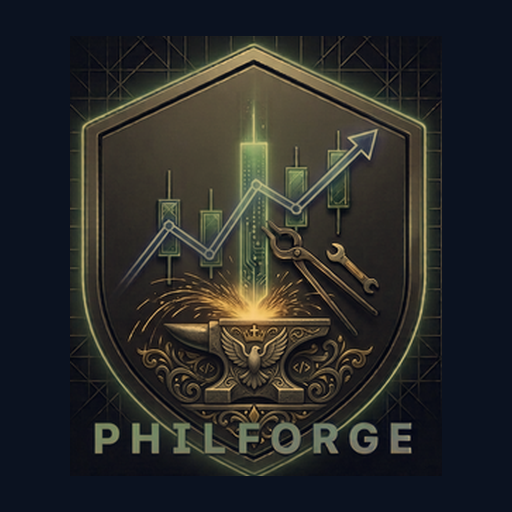
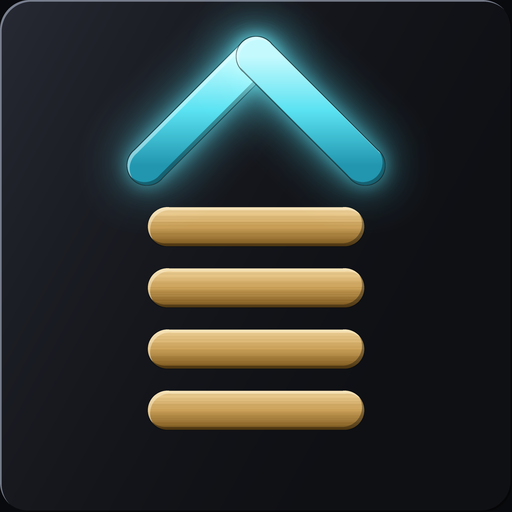
The desk's mark is the same one everywhere
The landing had the new mark; nothing else did. The installed app, the
browser tab, the unlock screen and the top bar were each still wearing
something older, so the product had four logos.

Regenerated static/pwa-icons/ from the mark. The maskable pair is drawn
on a flat ground rather than as the plate, and sized so its DIAGONAL
fits the 80% safe circle — fitting the height instead left the bottom
rung outside it, which a round launcher would have clipped.

/favicon.ico was serving a purple hexagon that belonged to no part of
this product. It now draws the mark as an SVG, which stays sharp at the
16px a tab actually paints.

The in-app mark keeps its four elements but changes shape: brass rungs
standing up under a cyan chevron. Three rungs, not four — at 36px a
fourth closes the gaps and the ladder reads as a solid block.

It is also no longer tinted by the appearance preset. Taking
--tint-primary/secondary/tertiary meant the logo in the top bar rarely
matched the one on the landing, the tab or the home screen; a mark that
changes colour with a theme is not a logo. The plate under it still
follows the theme.

The chevron is one square turned 45deg with two borders painted, and
cfInitBrandMotion() writes transform on it, so the rotation is repeated
in every keyframe — without that the animation drops it and the caret
lands as a square. The rungs now draw in on scaleX from the left rather
than rising on scaleY, because they are rungs being laid, not columns.
[…]

diff --git a/static/cryptoforge-app.css b/static/cryptoforge-app.css
@@ -414,41 +414,50 @@
     border: 1px solid rgba(96,165,250,0.14);
     background: linear-gradient(145deg, rgba(24,35,62,0.30), transparent 62%);
   }
+  /* The desk's mark: brass rungs standing up under a cyan chevron, the same
+     shape the landing and the app icon carry. Three rungs here, not the four
+     the full mark has — at 36px a fourth closes the gaps and the ladder reads
+     as a solid block.
+
+     These colours are deliberately NOT theme-tinted. The mark used to take
+     --tint-primary/secondary/tertiary and change colour with the appearance
+     preset, which meant the logo in the top bar rarely matched the logo on the
+     landing, the tab or the home screen. The plate below still follows the
+     theme; the mark on it does not. */
   .brand-column {
     position: absolute;
-    bottom: 7px;
-    width: 6px;
+    left: 50%;
+    margin-left: -8px;
+    width: 16px;
+    height: 3px;
     border-radius: 999px;
-    box-shadow: inset 0 1px 0 rgba(255,255,255,0.20);
-    /* cfInitBrandMotion() scales these on scaleY; growing from the baseline is
-       what makes them read as depth columns rather than stretching bars. */
-    transform-origin: 50% 100%;
+    background: linear-gradient(180deg, #F2D69E, #C89A56);
+    box-shadow: inset 0 1px 0 rgba(255,255,255,0.28);
+    /* cfInitBrandMotion() draws these in on scaleX, so a rung lays itself down
+       from the left the way the ladder is built. Growing from the centre made
+       them flick outwards from a dot, which read as a glitch. */
+    transform-origin: 0 50%;
     will-change: transform;
   }
-  .brand-column.col-a {
-    left: 9px;
-    height: 18px;
-    background: linear-gradient(180deg, #93c5fd, #2563eb);
-  }
-  .brand-column.col-b {
-    left: 16px;
-    height: 24px;
-    background: linear-gradient(180deg, var(--accent), var(--accent2));
-  }
-  .brand-column.col-c {
-    left: 23px;
-    height: 14px;
-    background: linear-gradient(180deg, #fb7185, #db2777);
-  }
+  .brand-column.col-a { top: 28px; }
+  .brand-column.col-b { top: 23px; }
+  .brand-column.col-c { top: 18px; }
+  /* The chevron is one square turned 45deg with two of its borders painted.
+     The rotation has to be repeated in every JS keyframe that touches
+     transform, or the animation drops it and the caret lands as a square. */
   .brand-spark {
     position: absolute;
-    top: 8px;
-    right: 7px;
-    width: 8px;
-    height: 8px;
-    border-radius: 999px;
-    background: radial-gradient(circle, #f8fafc 0%, rgba(125,211,252,0.86) 48%, rgba(14,165,233,0) 100%);
-    filter: blur(0.2px);
+    top: 9px;
+    left: 50%;
+    margin-left: -6px;
+    width: 12px;
+    height: 12px;
+    border-top: 3px solid #6FE9F7;
+    border-left: 3px solid #6FE9F7;
+    border-radius: 2px;
+    background: none;
+    transform: rotate(45deg);
+    filter: drop-shadow(0 0 5px rgba(79,231,245,0.55));
   }
   .topbar-brand-text {
     font-family: var(--font-display);
@@ -6208,12 +6217,8 @@ h1, h2, h3, h4, h5, h6,
     inset 0 1px 0 rgba(255,255,255,0.18),
     inset 0 -14px 22px rgba(0,0,0,0.22);
 }
-.brand-column.col-a { background: linear-gradient(180deg, #7dd3fc, #0891b2); }
-.brand-column.col-b { background: linear-gradient(180deg, #5eead4, #0f766e); }
-.brand-column.col-c { background: linear-gradient(180deg, #fcd34d, #d97706); }
-.brand-spark {
-  background: radial-gradient(circle, #fff7ed 0%, rgba(251,191,36,0.88) 46%, rgba(245,158,11,0) 100%);
-}
+/* The mark keeps its own colours under every appearance preset — see the note
+   on .brand-column. Only the plate it sits on follows the theme. */
 .topbar-brand-text {
   font-size: 18px;
   letter-spacing: 1.9px;
@@ -6668,9 +6673,7 @@ body {
 .appearance-option.active {
   border-color: rgba(var(--tint-primary-rgb),0.44);
 }
-.brand-column.col-a { background: linear-gradient(180deg, color-mix(in srgb, var(--tint-primary) 72%, white), var(--tint-primary)); }
-.brand-column.col-b { background: linear-gradient(180deg, color-mix(in srgb, var(--tint-tertiary) 72%, white), var(--tint-tertiary)); }
-.brand-column.col-c { background: linear-gradient(180deg, color-mix(in srgb, var(--tint-secondary) 72%, white), var(--tint-secondary)); }
+/* Rungs are not tinted by the preset; the logo is constant. */
 .topbar-brand-text,
 .unlock-title {
   background: linear-gradient(130deg, color-mix(in srgb, var(--tint-primary) 35%, white) 0%, var(--tint-primary) 42%, var(--tint-secondary) 100%);

diff --git a/static/cryptoforge-app.js b/static/cryptoforge-app.js
@@ -6629,25 +6629,25 @@ function cfInitBrandMotion() {
 
   columns.forEach(function(col, i) {
     col.animate([
-      { transform: 'scaleY(0.04)', opacity: 0 },
-      { transform: 'scaleY(1.16)', opacity: 1, offset: 0.62 },
-      { transform: 'scaleY(1)', opacity: 1 }
+      { transform: 'scaleX(0.04)', opacity: 0 },
+      { transform: 'scaleX(1.08)', opacity: 1, offset: 0.62 },
+      { transform: 'scaleX(1)', opacity: 1 }
     ], { duration: 880, delay: 120 + i * 95, easing: RISE, fill: 'backwards' });
   });
 
   if (spark) {
     var strike = spark.animate([
-      { transform: 'scale(0)', opacity: 0 },
-      { transform: 'scale(1.55)', opacity: 1, offset: 0.62 },
-      { transform: 'scale(1)', opacity: 1 }
+      { transform: 'rotate(45deg) scale(0)', opacity: 0 },
+      { transform: 'rotate(45deg) scale(1.4)', opacity: 1, offset: 0.62 },
+      { transform: 'rotate(45deg) scale(1)', opacity: 1 }
     ], { duration: 620, delay: 430, easing: POP, fill: 'backwards' });
     // Hand over to the resting pulse only once the strike has landed, so the
     // two never fight over transform.
     strike.finished.then(function() {
       spark.animate([
-        { opacity: 0.55, transform: 'scale(0.88)' },
-        { opacity: 1, transform: 'scale(1.14)' },
-        { opacity: 0.55, transform: 'scale(0.88)' }
+        { opacity: 0.6, transform: 'rotate(45deg) scale(0.94)' },
+        { opacity: 1, transform: 'rotate(45deg) scale(1.08)' },
+        { opacity: 0.6, transform: 'rotate(45deg) scale(0.94)' }
       ], { duration: 3400, iterations: Infinity, easing: 'ease-in-out' });
     }).catch(function() { /* cancelled by a theme swap or teardown */ });
   }
@@ -6660,9 +6660,9 @@ function cfInitBrandMotion() {
     columns.forEach(function(col, i) {
       var peak = 0.62 + Math.random() * 0.7;
       col.animate([
-        { transform: 'scaleY(1)' },
-        { transform: 'scaleY(' + peak.toFixed(3) + ')', offset: 0.44 },
-        { transform: 'scaleY(1)' }
+        { transform: 'scaleX(1)' },
+        { transform: 'scaleX(' + peak.toFixed(3) + ')', offset: 0.44 },
+        { transform: 'scaleX(1)' }
       ], { duration: 780, delay: i * 65, easing: RISE });
     });
   });

diff --git a/static/cryptoforge-login.css b/static/cryptoforge-login.css
@@ -111,17 +111,24 @@
     border: 1px solid rgba(96,165,250,0.14);
     background: linear-gradient(145deg, rgba(24,35,62,0.30), transparent 62%);
   }
+  /* Same mark as the app's top bar, 36px geometry doubled: brass rungs
+     standing up under a cyan chevron. Fixed colours — the logo does not
+     follow the appearance preset. */
   .brand-column {
-    position: absolute; bottom: 14px; width: 11px; border-radius: 999px;
-    box-shadow: inset 0 1px 0 rgba(255,255,255,0.20);
+    position: absolute; left: 50%; margin-left: -16px;
+    width: 32px; height: 6px; border-radius: 999px;
+    background: linear-gradient(180deg, #F2D69E, #C89A56);
+    box-shadow: inset 0 1px 0 rgba(255,255,255,0.28);
   }
-  .brand-column.col-a { left: 18px; height: 33px; background: linear-gradient(180deg, #93c5fd, #2563eb); }
-  .brand-column.col-b { left: 31px; height: 44px; background: linear-gradient(180deg, var(--accent), var(--accent2)); }
-  .brand-column.col-c { left: 44px; height: 26px; background: linear-gradient(180deg, #fb7185, #db2777); }
+  .brand-column.col-a { top: 56px; }
+  .brand-column.col-b { top: 46px; }
+  .brand-column.col-c { top: 36px; }
   .brand-spark {
-    position: absolute; top: 15px; right: 13px; width: 14px; height: 14px; border-radius: 999px;
-    background: radial-gradient(circle, #f8fafc 0%, rgba(125,211,252,0.86) 48%, rgba(14,165,233,0) 100%);
-    filter: blur(0.2px);
+    position: absolute; top: 18px; left: 50%; margin-left: -12px;
+    width: 24px; height: 24px; border-radius: 4px;
+    border-top: 6px solid #6FE9F7; border-left: 6px solid #6FE9F7;
+    background: none; transform: rotate(45deg);
+    filter: drop-shadow(0 0 9px rgba(79,231,245,0.55));
   }
   .unlock-title {
     font-family: var(--font-display);

diff --git a/static/sw.js b/static/sw.js
@@ -10,7 +10,7 @@
 // that points at them is cached here CACHE-FIRST under a stable URL, so a new
 // ?v= token on the images alone would never have been seen by an installed
 // app. This bump is what evicts the old manifest.
-const CACHE_NAME = 'cryptoforge-shell-v88';
+const CACHE_NAME = 'cryptoforge-shell-v89';
 
 // Scripts and stylesheets are requested with a content-hash ?v= token that the
 // server computes at render time, so their URLs cannot be known here — listing

diff --git a/app.py b/app.py
@@ -2123,7 +2123,22 @@ def _estimate_warmup_days(candle_interval: str, indicators: List[str]) -> int:
 # ── Favicon ───────────────────────────────────────────────────────
 @app.api_route("/favicon.ico", methods=["GET", "HEAD"])
 async def favicon():
-    svg = '<svg xmlns="http://www.w3.org/2000/svg" viewBox="0 0 100 100"><rect width="100" height="100" rx="20" fill="#8b5cf6"/><text y=".9em" x="50" text-anchor="middle" font-size="70" font-family="sans-serif">⬡</text></svg>'
+    # The desk's mark, flattened to two colours: four brass rungs standing up
+    # under a cyan chevron. Drawn rather than served as a file because this
+    # route answers /favicon.ico for every page, and an SVG stays sharp at the
+    # 16px a browser tab actually paints. It replaces a purple hexagon that
+    # belonged to no part of this product.
+    svg = (
+        '<svg xmlns="http://www.w3.org/2000/svg" viewBox="0 0 64 64">'
+        '<rect width="64" height="64" rx="14" fill="#0A0A0C"/>'
+        '<g fill="none" stroke-linecap="round" stroke-width="4.9">'
+        '<g stroke="#F5A623">'
+        '<path d="M20.9 51.3H43.1"/><path d="M20.9 43.6H43.1"/>'
+        '<path d="M20.9 36H43.1"/><path d="M20.9 28.3H43.1"/>'
+        "</g>"
+        '<path d="M18.4 20.7L32 7l13.6 13.7" stroke="#4FE7F5" stroke-linejoin="round"/>'
+        "</g></svg>"
+    )
     return Response(content=svg, media_type="image/svg+xml")
 
 
